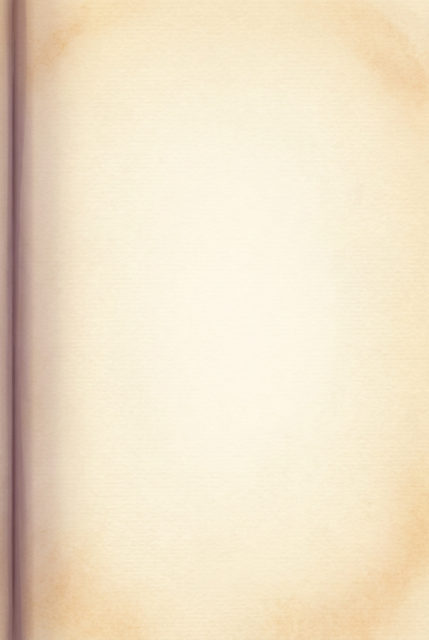
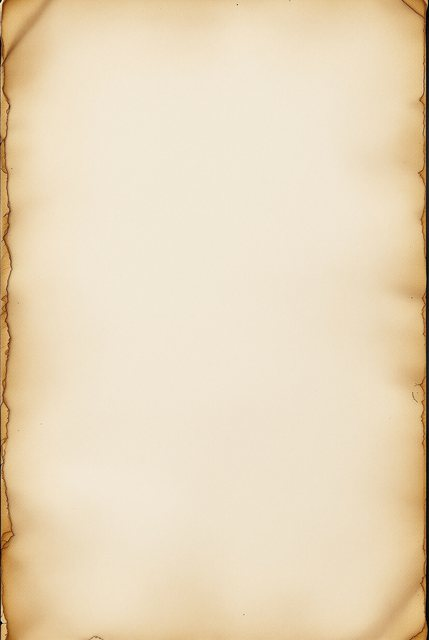
Arcade: repaint the three in-game backdrops in the covers' style
Flux, same hand as the covers, written over the existing files so nothing is
re-wired. Desert painted tall and bottom-cropped so the horizon stays where the
manna lands; page with no visible edges; workshop wall bare with no cross shapes.

Claude-Session: https://claude.ai/code/session_01GVxnKhCiKBs22rrCbD4ABT

diff --git a/scripts/gen-arcade-scenes.py b/scripts/gen-arcade-scenes.py
@@ -1,0 +1,52 @@
+#!/usr/bin/env python3
+"""Paint the arcade's in-game backdrops (art/arcade-scenes.flux.json).
+
+    python3 scripts/gen-arcade-scenes.py [--only id,id]
+
+Flux Pro Ultra, the covers' hand, written as JPEGs over public/arcade/<id>.jpg
+at the size each field already draws them, so GENERATED_ART needs no change.
+The fal.ai key is a network secret injected by the environment's proxy.
+"""
+import io, json, os, sys, time, urllib.request
+sys.path.insert(0, os.path.join(os.path.dirname(__file__), 'avatar'))
+from PIL import Image
+from layers import _get, H
+
+ROOT = os.path.abspath(os.path.join(os.path.dirname(__file__), '..'))
+M = json.load(open(os.path.join(ROOT, 'art', 'arcade-scenes.flux.json')))
+
+
+def paint(prompt, aspect):
+    body = {"prompt": prompt, "aspect_ratio": aspect, "output_format": "jpeg", "num_images": 1, "safety_tolerance": "2"}
+    req = urllib.request.Request("https://queue.fal.run/" + M["model"], data=json.dumps(body).encode(), headers=H)
+    r = json.load(urllib.request.urlopen(req, timeout=60))
+    for _ in range(150):
+        if _get(r["status_url"])["status"] == "COMPLETED":
+            break
+        time.sleep(2)
+    url = _get(r["response_url"])["images"][0]["url"]
+    return Image.open(io.BytesIO(urllib.request.urlopen(url, timeout=60).read())).convert("RGB")
+
+
+def main():
+    args = sys.argv[1:]
+    only = args[args.index('--only') + 1].split(',') if '--only' in args else None
+    for sid, s in M["scenes"].items():
+        if only and sid not in only:
+            continue
+        im = paint(s["subject"] + '. ' + M["style"], s["aspect"])
+        w, h = s["size"]
+        # Cover-crop to the field's exact box (Flux's 2:3 is not exactly 429x640).
+        r = max(w / im.width, h / im.height)
+        im = im.resize((round(im.width * r), round(im.height * r)), Image.LANCZOS)
+        l, t = (im.width - w) // 2, (im.height - h) // 2
+        if s.get('anchor') == 'bottom':
+            t = im.height - h
+        im = im.crop((l, t, l + w, t + h))
+        out = os.path.join(ROOT, 'public', 'arcade', f'{sid}.jpg')
+        im.save(out, 'JPEG', quality=84, optimize=True, progressive=True)
+        print('ok', sid, os.path.getsize(out) // 1024, 'KB', flush=True)
+
+
+if __name__ == '__main__':
+    main()

diff --git a/CLAUDE.md b/CLAUDE.md
@@ -4258,7 +4258,7 @@ surface draws a game as its COVER PAINTING (`ArcadeCover`, Flux, same hand as
 the card backgrounds — `art/arcade-covers.flux.json`,
 `scripts/gen-arcade-covers.py`, `public/arcade/cover_<id>.jpg`), not as a drawn
 cabinet: the lobby is three wide covers, the shared-link page shows the game's
-cover. The drawn `ArcadeCabinet` survives only as the Upper Room's tap target
+cover. **The in-game backdrops are the covers' hand too** (2026-11-12, `art/arcade-scenes.flux.json`, `scripts/gen-arcade-scenes.py`, written over `public/arcade/arcade_*.jpg` so `GENERATED_ART` is unchanged); the desert is painted 9:21 and bottom-cropped, because Flux puts its horizon two-thirds down and `MANNA_PLOTS` start two-fifths down. The drawn `ArcadeCabinet` survives only as the Upper Room's tap target
 (invisible over the painted rooms, which paint their own). The map lists the
 arcade under Study. Where the text below says "cabinet in the lobby", read
 "cover".
